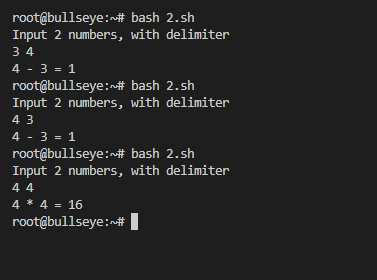
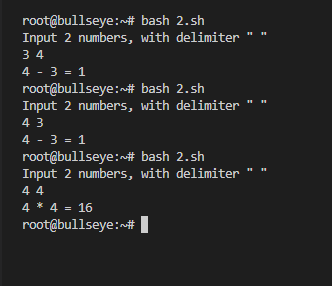
1.4

diff --git a/5-01-Bash/5-01-Bash-Alex-Shadrin-FOPS8.md b/5-01-Bash/5-01-Bash-Alex-Shadrin-FOPS8.md
@@ -2,7 +2,17 @@
 Напишите скрипт, который при запуске спрашивает у пользователя путь до директории и создает ее при условии, что ее еще не существует. Если директория существует – пользователю выводится сообщение, что директория существует. Скрипт должен принимать абсолютный путь до директории, например /tmp/testdir или /home/user/testdir
 Пришлите получившийся код и скриншот, показывающий работу скрипта в качестве ответа.
 
-![](https://github.com/AleksShadrin/netology/blob/main/5-01-Bash/1.sh)
+#!/bin/bash
+echo "Input path to create"
+read path
+if [[ ! -d $path ]];
+then 
+    mkdir $path
+    echo "Directory has been created: $path"
+else 
+    echo "Derectory is already exist"
+fi;
+
 ![](https://github.com/AleksShadrin/netology/blob/main/5-01-Bash/1.png)
 
 Задание 2.
@@ -12,6 +22,19 @@
 Необходимо вычесть из большего числа меньшее и вывести результат в консоль.
 Если числа равны – умножить их друг на друга (или возвести в квадрат одно из чисел) и вывести результат в консоль.
 Пришлите получившийся код и скриншот, показывающий работу скрипта в качестве ответа.
+
+#!/bin/bash
+echo Input 2 numbers, with delimiter \"\ \"
+read a b
+if [[ $a -gt $b ]];
+then 
+    echo "$a - $b = $(($a-$b))"
+elif [[ $a -lt $b ]]
+then
+    echo "$b - $a = $(($b-$a))"
+else
+    echo "$a * $b = $(($a*$b))"
+fi;
 
 ![](https://github.com/AleksShadrin/netology/blob/main/5-01-Bash/2.png)
 
@@ -25,5 +48,23 @@
 Если txt или doc – вывести слово «text»
 Если формат не подходит под заданные выше – написать «unknown»
 Пришлите получившийся код и скриншот, показывающий работу скрипта в качестве ответа.
+
+#!/bin/bash
+echo Input filename
+read filename
+case "$filename" in
+    *.jpg|*.gif|*.png)
+        echo image
+    ;;
+    *.wav|*.mp3) 
+        echo audio
+    ;;
+    *.txt|*.doc) 
+        echo text
+    ;;
+    *) 
+        echo unknown
+    ;;
+esac
 
 ![](https://github.com/AleksShadrin/netology/blob/main/5-01-Bash/3.png)
